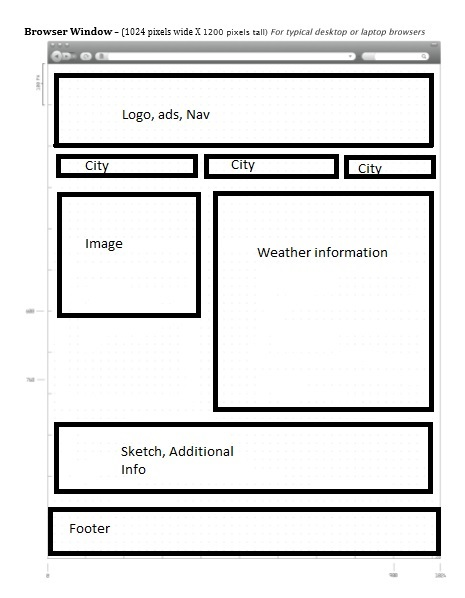
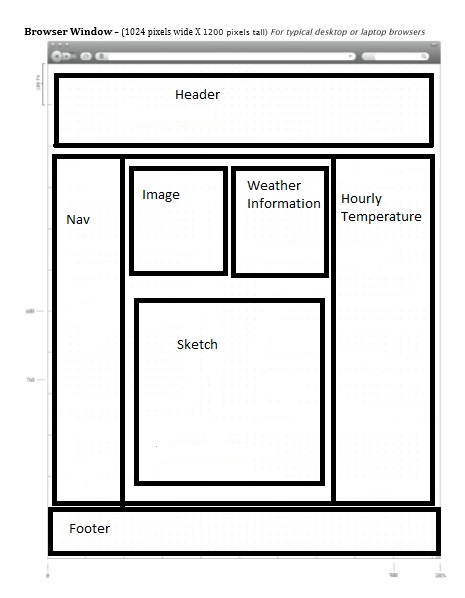
dvfdvfdv

Changed region(s): [[0.0903, 0.2408, 0.9333, 0.8729], [0.2409, 0.1505, 0.4817, 0.2107]]

diff --git a/css/weather.css b/css/weather.css
@@ -1,5 +1,4 @@
 body{
-
 	border: 2px solid blue;
 	margin: 0;
 }
@@ -277,33 +276,145 @@ footer:hover{
 }
 
 @media(min-width: 1001px ){
+	
+body{
+	display: flex;
+	flex-wrap: wrap;
+	flex-basis: 100%;
+	border: 0;
+}
+	
+	
 header{
-	flex-basis: auto;
+	flex-basis: 100%;
+	border: 0;
 }
 
 nav{
-	
-	border: 2px solid green;
-	flex-direction: row;
+	flex: 0 0 20vw;
+	height: 50vh;
+	border: 0;
+	flex-direction: column;
 	
 }
 
 nav > ul{
 	display: flex;
 	flex-wrap: wrap;
-	
 	list-style-type: none;
 	padding: 0px;
 	margin: 0px;
+	
+	
 }
 
 nav > ul > li{
+	font-size: 6vw;
 	flex-basis: 30%;
-	border: 2px solid blue;
+	border: 0;
+	margin: 3vh 0px;
+	
 }
 
 nav > ul > li > a{
+	
 	text-decoration: none;
+}
+
+main{
+	border: 0;
+	flex: 1 0 50%;
+	
+}
+
+#main > figure{
+	width: 100%;
+	align-self: flex-start;
+	border: 0;
+}
+
+#main > figure > img{
+	border: 0;
+	
+}
+
+#sketch{
+	display: flex;
+	flex-direction: column;
+	flex: 1 0 auto;
+	border: 0;
+}
+
+#sketch > h2{
+	margin: 5vh 0;
+	border: 0;
+}
+
+#large_title{
+	justify-content: center;
+	font-size: 5vw;
+	
+}
+
+#weather_information{
+	display: flex;
+	flex-wrap: wrap;
+	flex: 0 0 100%;
+	height: auto;
+	flex-direction: row;
+	align-items: flex-start;
+	justify-content: space-between;
+}
+
+#main{
+	display: flex;
+	flex-direction: column;
+	flex: 1 0 30%;
+	border: 0;
+}
+
+#weather_summary{
+	margin: 5vh 0;
+	order: 1;
+	font-size: 4vw;
+	align-self: flex-start;
+	align-items: flex-start;
+	border: 0;
+}
+#weather_summary h4{
+	font-size: 4vw;
+}
+
+#weather_summary > *{
+	border: 0;
+	
+}
+
+
+#daily_temperature h4{
+	font-size: 4vw;
+}
+
+#daily_temperature{
+	justify-content: center;
+	width: 35%;
+	font-size: 4vw;
+	text-align: center;
+	border: 0;
+}
+
+footer{
+	border: 0;
+}
+
+footer ul{
+	flex-direction: column;
+	justify-content: flex-start;
+}
+
+footer ul li{
+	font-size: 5vw;
+	
 }
 
 #image_small{
@@ -332,7 +443,8 @@ nav > ul > li > a{
 	display: flex;
 	align-items: center;
 	padding-left: 2vw; 
-	heght: auto;
+	height: auto;
 }
+
 }
 

diff --git a/myhomework/franklin.html b/myhomework/franklin.html
@@ -23,19 +23,21 @@
 	</nav>
 	<main>
 		<article id="weather_information">
-			<figure>
-				<img  alt="Sunny Weather" src="../images/sunny_weather.png">
-			</figure>
-			<section id="weather_summary">
-				<h4>Weather Information:</h4>
-				<p>City: Franklin;</p>
-				<p>State: ID;</p>
-				<p>Temperature High: 90;</p>
-				<p>Temperature Low: 66;</p>
-				<p>Precip: 0;</p>
-				<p>Wind: 1 - 5;</p>
-				<p>Direction: Southwest;</p>
-				<p id="last_p">Summary: Sunny.</p>
+			<section id="main">
+				<figure>
+					<img  alt="Sunny Weather" src="../images/sunny_weather.png">
+				</figure>
+				<section id="weather_summary">
+					<h4>Weather Information:</h4>
+					<p>City: Franklin;</p>
+					<p>State: ID;</p>
+					<p>Temperature High: 90;</p>
+					<p>Temperature Low: 66;</p>
+					<p>Precip: 0;</p>
+					<p>Wind: 1 - 5;</p>
+					<p>Direction: Southwest;</p>
+					<p id="last_p">Summary: Sunny.</p>
+				</section>
 			</section>
 			<section id="daily_temperature">
 				<h4>Hourly Temperature:</h4>
@@ -65,22 +67,22 @@
 				<p>"23": 66</p>
 			</section>
 		</article>
+	</main>
+		<figure id="sketch">
 		<h2 id="small_title">Sketch: Small</h2>
 		<h2 id="medium_title">Sketch: Medium</h2>
 		<h2 id="large_title">Sketch: Large</h2>
-		<figure>
 			<img id="image_small" alt="Small Sketch for Mobile" src="../images/sketches/small.jpg">
 			<img id="image_medium" alt="Medium Sketch for Tablets" src="../images/sketches/midium.jpg">
 			<img id="image_large" alt="Large Sketch for Browsers" src="../images/sketches/browser.jpg">
 		</figure>
-	</main>
+	
 	<footer>
 	<ul>
 		<li>Maksim Efoshkin &copy;</li>
 		<li>Last Updated: 29\10\16</li>
 	</ul>
 	</footer>
-
 	<script src="js/script.js"></script>
 </body>
 </html>
